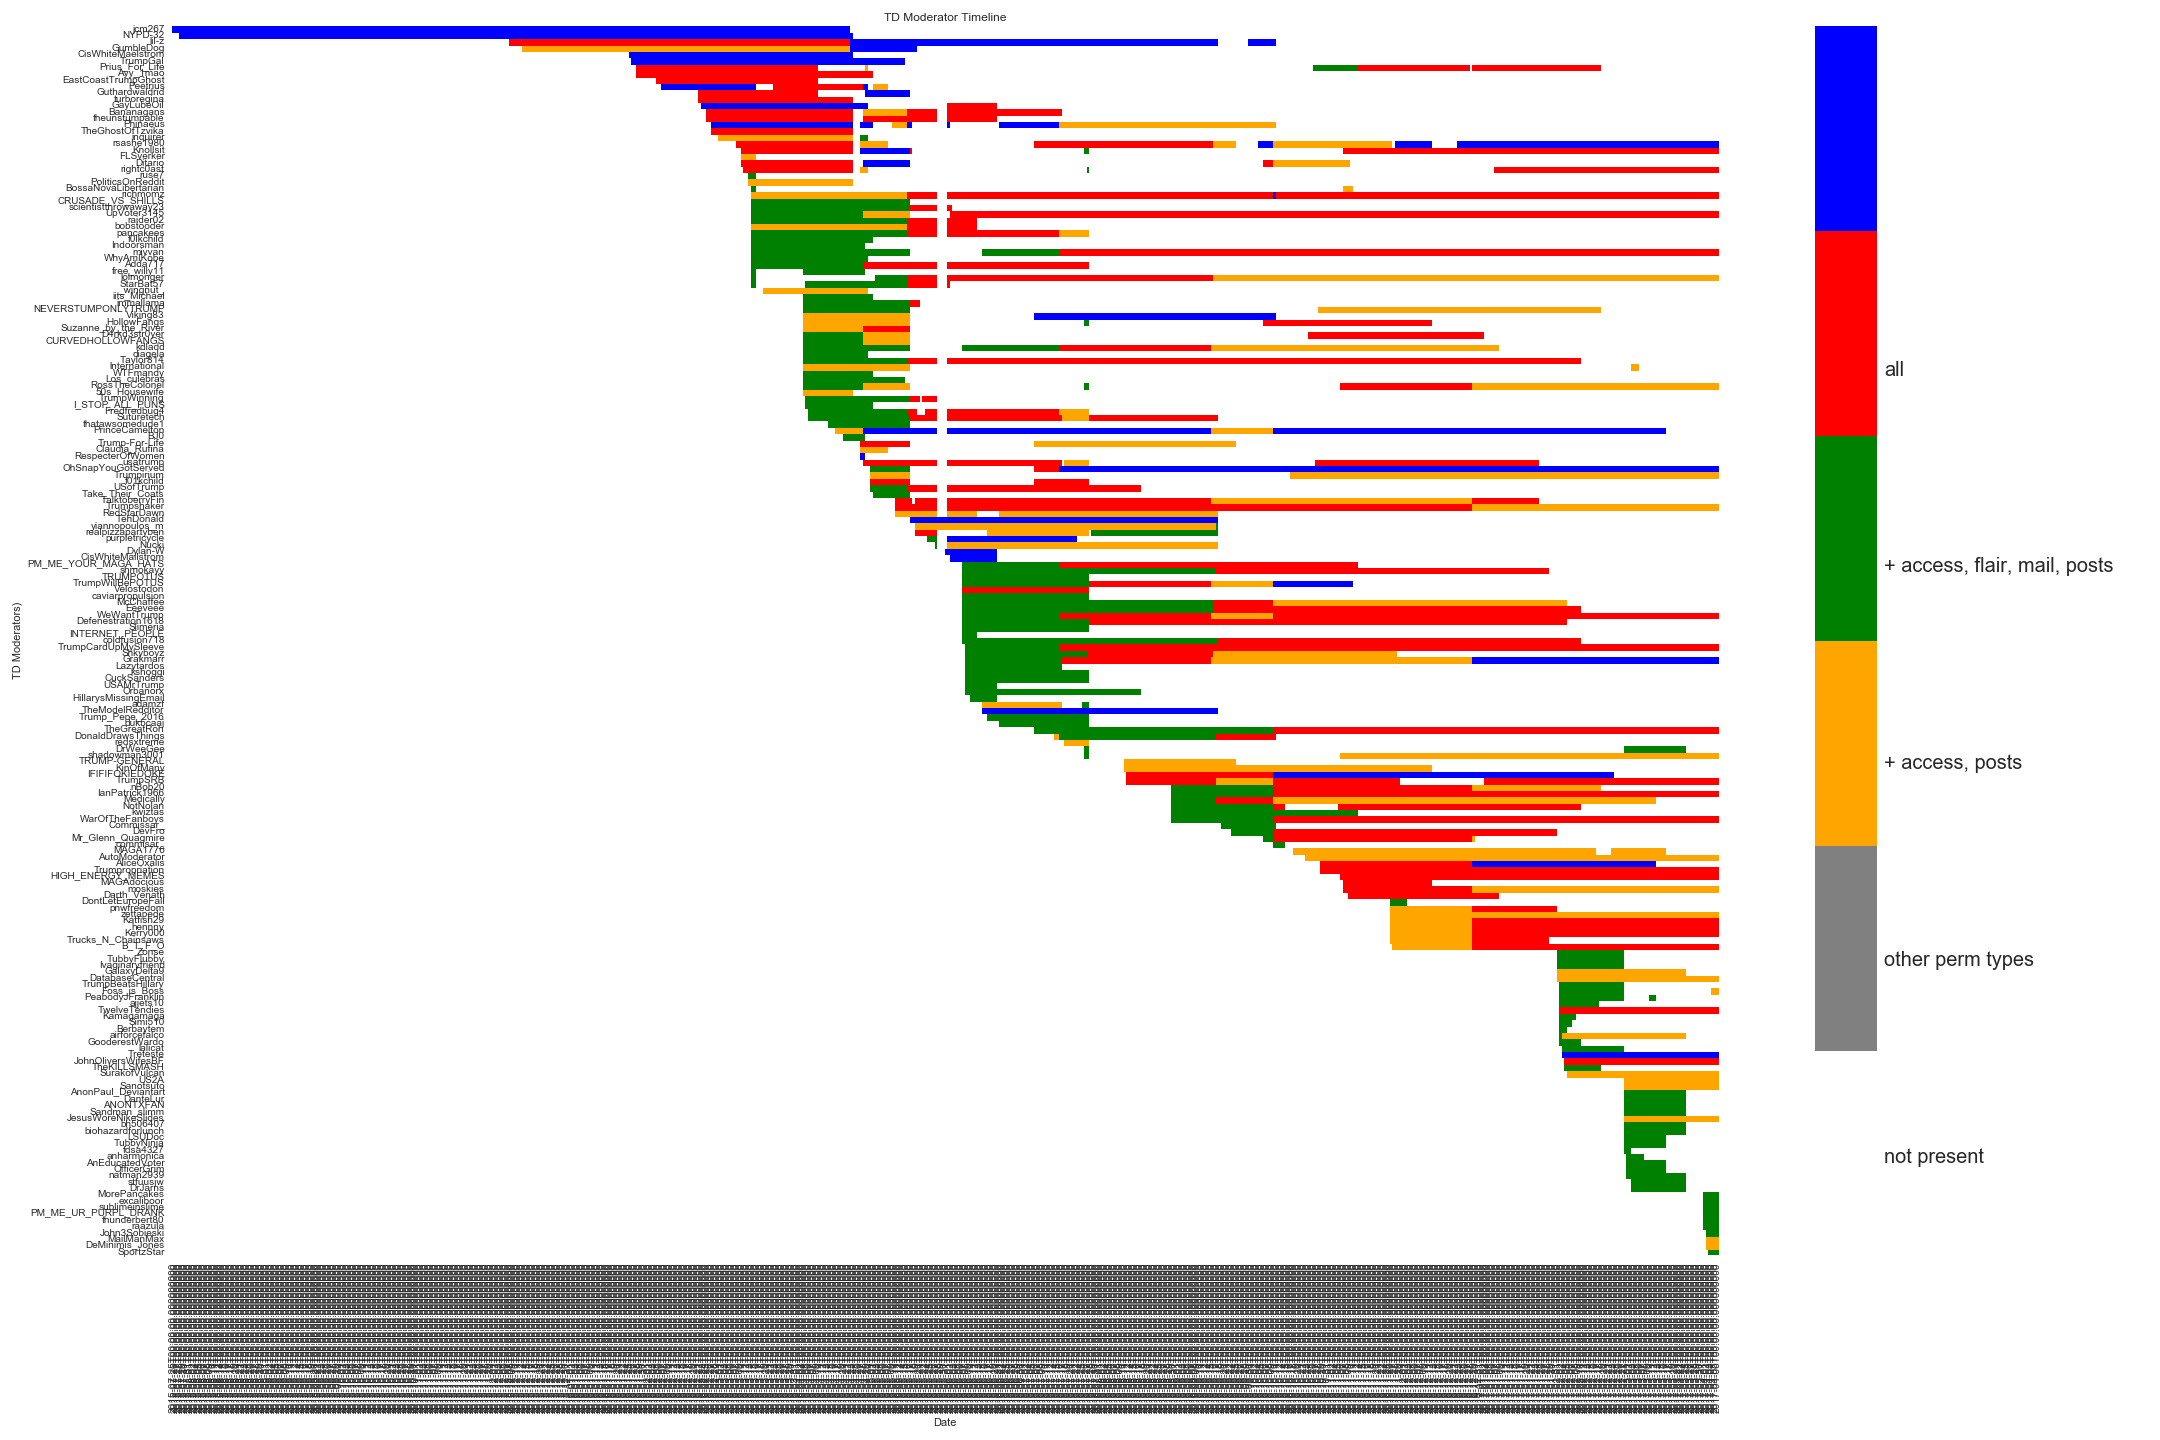
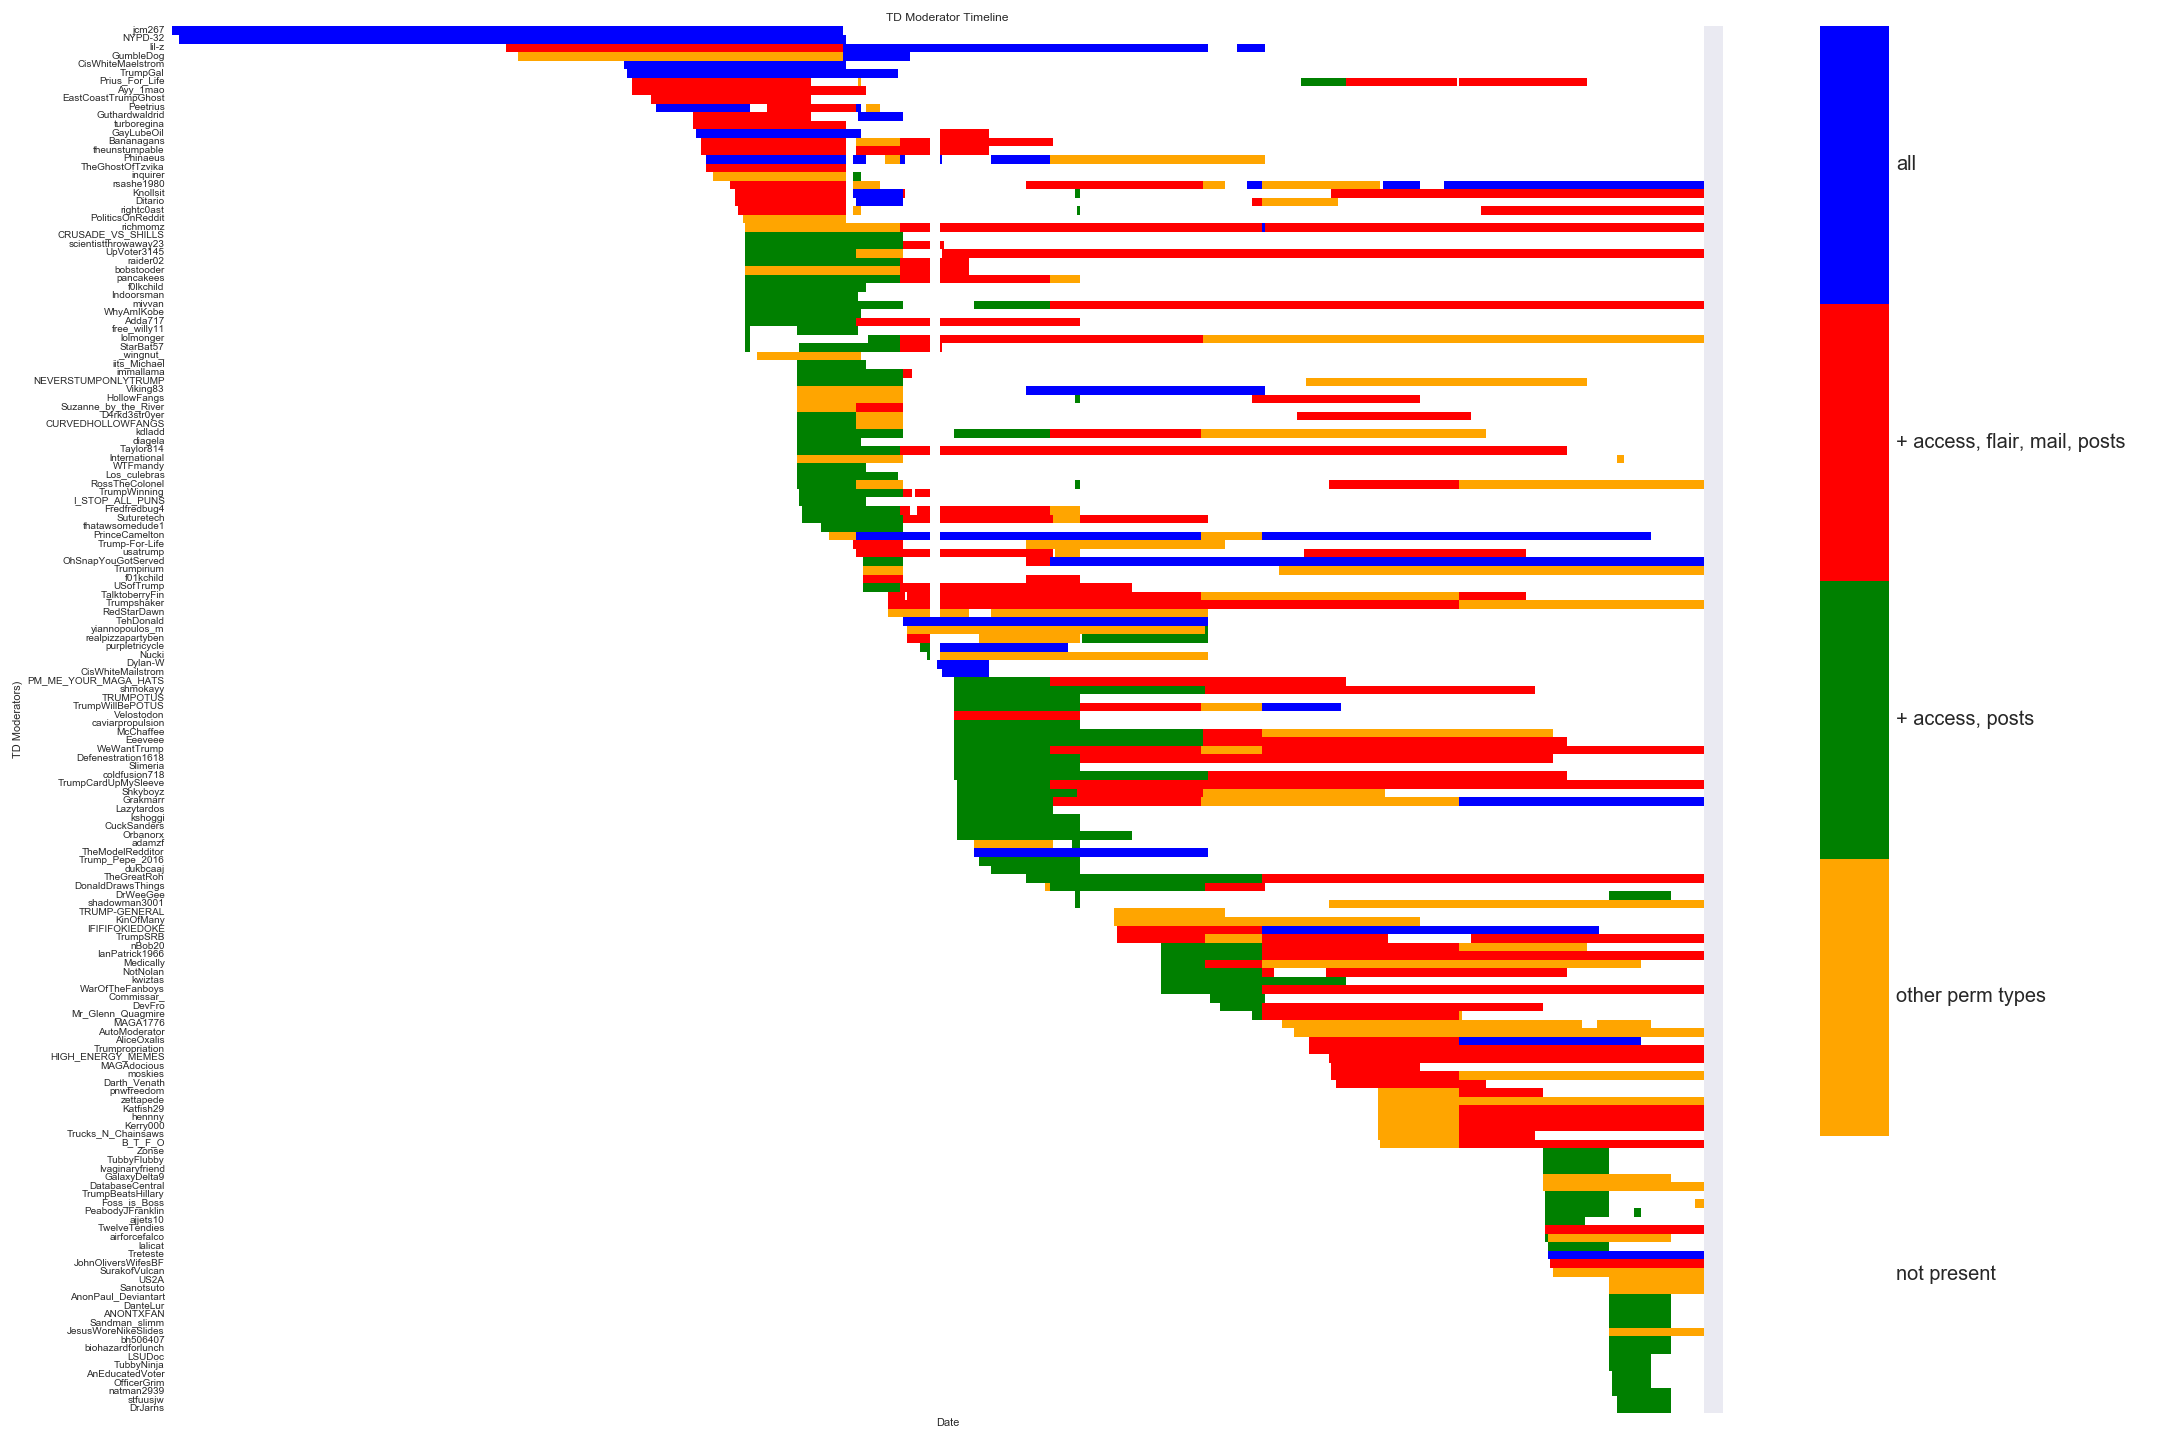
separated former and current mods, looking at mod perm breakdown

diff --git a/scripts/td_timeline_afterless.py b/scripts/td_timeline_afterless.py
@@ -112,57 +112,81 @@ def weekly_timeline(df, min=1):
 
 ####### PLOTTING FUNCTIONS
 def set_cmap():
-    colours = ('white','orange','green','red','blue')
+    colours = ('white','chocolate','slateblue','seagreen','black')
     cmap = LinearSegmentedColormap.from_list('Custom', colours, len(colours))
     return cmap
 
 def td_plot():
-    plt.figure(figsize=(30,20))
+    plt.figure(figsize=(13,9))
     
-    ax = sns.heatmap(timeline.T, cmap=set_cmap(), cbar=False)
-    start, end = ax.get_xlim()
-    ax.set_xticks(np.arange(start, end+30, 30))
-    ax.set_xticklabels(list(timeline.index.strftime('%Y-%m'))[::30])
-    plt.gcf().autofmt_xdate()
+    ax = sns.heatmap(timeline, cmap=set_cmap())
+    start, end = ax.get_ylim()
+    ax.set_yticks(np.arange(start, end, 30))
+    ax.set_yticklabels(list(timeline.index.strftime('%Y-%m'))[::-30])
+    plt.tick_params(axis='x',which='both', labelbottom='off')
     
     plt.title('TD Moderator Timeline')
-    plt.ylabel('TD Moderators)')
-    plt.xlabel('Date')
-    
-    plt.tick_params(axis='x',which='both', labelbottom='off')
-    plt.gca().set_xticks(plt.gca().get_yticks()[::20])
+    plt.xlabel('TD Moderators')
+    plt.ylabel('Date')
     
     colorbar = ax.collections[0].colorbar
     colorbar.set_ticks([0.4, 1.2, 2, 2.8, 3.6])
     colorbar.set_ticklabels(['not present', 'other perm types',
                              '+ access, posts', '+ access, flair, mail, posts',
                              'all'])
-    colorbar.ax.tick_params(labelsize=20)
+    #colorbar.ax.tick_params(labelsize=20)
     
     plt.tight_layout()
-    plt.savefig('/Users/emg/Programming/GitHub/subreddit-visuals/figures/td-timeline.png')
+    plt.savefig('/Users/emg/Programming/GitHub/subreddit-visuals/figures/td-timeline-V.png')
+
+
+def td_split_plot():
+    '''create timeline subplots for former and current td mods'''
+    last = timeline.index[-1]
+    current = timeline[timeline.loc[last][timeline.loc[last] > 0].index]
+    former = timeline[timeline.loc[last][timeline.loc[last] == 0].index]
+    
+    fig, (ax1, ax2) = plt.subplots(2,1) #, figsize=(9,13))
+    
+    g1 = sns.heatmap(former, cmap=set_cmap(),cbar=False, ax=ax1)
+    start, end = g1.get_ylim()
+    g1.set_yticks(np.arange(start, end, 30))
+    g1.set_yticklabels(list(timeline.index.strftime('%Y-%m'))[::-30])
+    g1.tick_params(axis='x',which='both', labelbottom='off')
+    
+    g1.set_title('TD Former Moderators')
+    g1.set_ylabel('Date')
+    
+    g2 = sns.heatmap(current, cmap=set_cmap(), ax=ax2)
+    start, end = g2.get_ylim()
+    g2.set_yticks(np.arange(start, end, 30))
+    g2.set_yticklabels(list(timeline.index.strftime('%Y-%m'))[::-30])
+    g2.tick_params(axis='x',which='both', labelbottom='off')
+    
+    g2.set_title('TD Current Moderators')
+    g2.set_xlabel('TD Moderators')
+    g2.set_ylabel('Date')
+    
+    colorbar = ax2.collections[0].colorbar
+    colorbar.set_ticks(np.arange(0.5, len(colours)+0.5, 1))
+    colorbar.set_ticklabels(['not present', 'other perm types',
+                             '+ access, posts', '+ access, flair, mail, posts',
+                             'all'])
+    colorbar.ax.set_title('Permission type')
+    
+    plt.tight_layout()
+    plt.savefig('/Users/emg/Programming/GitHub/subreddit-visuals/figures/td-timeline-split-V.png')
+
 
 ######## RUN SCRIPT
 
-timeline = timeline_df(td_data())
-
-
+# get timeline
+df = td_data()
+timeline = timeline_df(df)
 timeline = timeline[timeline.sum()[timeline.sum()>30].index]
+
+
+# make plots
 td_plot()
-
-plt.xticks(np.arange(min(timeline.index), max(timeline.index)+1, 30.0))
-
-
-# montly ticks not working in plot!
-from matplotlib.dates import DateFormatter, DayLocator
-
-
-plt.gca().set_xticks([])
-plt.gca().xaxis.set_major_locator(DayLocator(bymonthday=1))
-plt.gca().xaxis.set_major_formatter(DateFormatter('%y-%m'))
-plt.gcf().autofmt_xdate()
-
-
-
 
 
